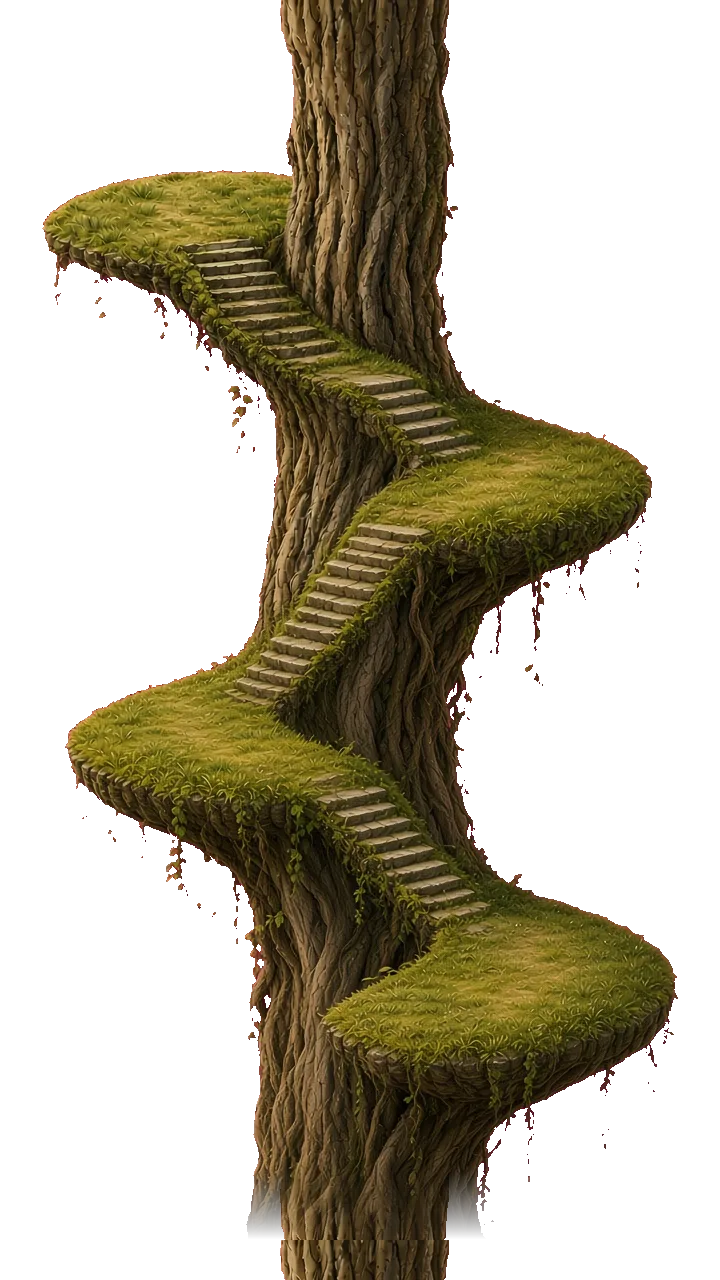
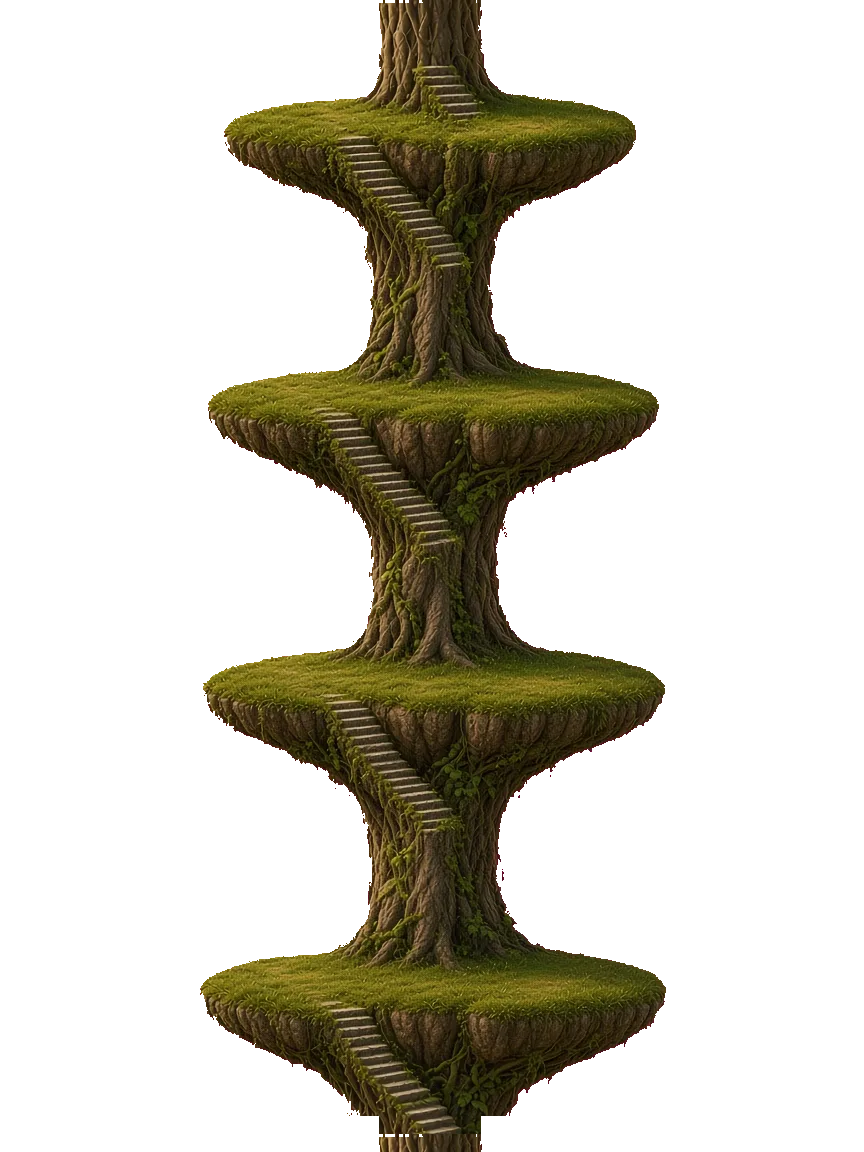
Seat larger trees in rocky plateaus on the painted beanstalk.
The spiral frame keeps a continuous trunk, signs inside the picture, and the cloudy sky from the home art. Each tree now stands in the grass of a wider stone shelf, with Zip and Frill on the current plateau. Cache ir-20261127y.

diff --git a/js/screens.js b/js/screens.js
@@ -546,7 +546,7 @@
         here: st === 'here',
         soon: st === 'soon',
         done: st === 'done',
-        img: 'img/sky/stops/u' + String(n).padStart(2, '0') + '.webp', /* painted from img/units/tile */
+        img: (spiral ? 'img/sky/rooted/u' : 'img/sky/stops/u') + String(n).padStart(2, '0') + '.webp', /* painted from img/units/tile */
         lazy: n > 8,
         kicker: 'Unit ' + n,
         name: t[0],
@@ -561,7 +561,7 @@
       n: 0,
       side: coilSide(0),
       here: atFoundations,
-      img: 'img/sky/stops/f.webp', /* painted from coverSrc, foundation/img/foundations_cover.jpg */
+      img: (spiral ? 'img/sky/rooted/f.webp' : 'img/sky/stops/f.webp'), /* painted from coverSrc, foundation/img/foundations_cover.jpg */
       kicker: 'Foundations',
       name: 'Learn the letters',
       title: 'Foundations: Learn the letters',
@@ -583,7 +583,8 @@
     pathSvg.setAttribute('aria-hidden', 'true');
     const spire = h('div', { class: 'skyspire', 'aria-hidden': 'true' });
     const trunk = h('div', { class: 'skytrunk', 'aria-hidden': 'true' });
-    const trailBits = [pathSvg, spire, trunk, library].concat(cards);
+    const skyback = spiral ? h('div', { class: 'skyback', 'aria-hidden': 'true' }) : null;
+    const trailBits = [skyback, pathSvg, spire, trunk, library].filter(Boolean).concat(cards);
     const zipImg = h('img', { class: 'skyfigpic', alt: '', src: 'img/zipA.webp' });
     const frillImg = h('img', { class: 'skyfigpic', alt: '', src: 'img/zip-show/frill-glide.webp' });
     const tuft = () => h('img', { class: 'skygrass', alt: '', src: 'img/sky/grass_tuft.webp' });
@@ -676,7 +677,8 @@
       const a = art.getBoundingClientRect();
       const t = trail.getBoundingClientRect();
       const back = stop.classList.contains('sky-b');
-      const y = a.top - t.top + a.height * 0.62;
+      const coil = trail.closest('.skyhome').classList.contains('spiral');
+      const y = a.top - t.top + a.height * (coil ? 0.96 : 0.62);
       const zipR = back ? 0.52 : 0.28;
       const frillR = back ? 0.74 : 0.7;
       return { y: y, zipX: a.left - t.left + a.width * zipR, frillX: a.left - t.left + a.width * frillR, midX: a.left - t.left + a.width * (back ? 0.3 : 0.5) };
@@ -695,26 +697,24 @@
       const fixed = sideEl && getComputedStyle(sideEl).position === 'fixed';
       const limit = fixed ? sideEl.getBoundingClientRect().top : window.innerHeight;
       const avail = Math.max(narrow ? 480 : 540, limit - trail.getBoundingClientRect().top - 10);
-      /* Painted plateaus in beanstalk.webp: left, right, left, right. */
+      /* Grass tops on the rocky shelves in beanstalk.webp. */
       const slots = [
-        { x: 0.28, y: 0.17 },
-        { x: 0.73, y: 0.37 },
-        { x: 0.28, y: 0.57 },
-        { x: 0.74, y: 0.76 }
+        { x: 0.36, y: 0.132 },
+        { x: 0.64, y: 0.358 },
+        { x: 0.36, y: 0.602 },
+        { x: 0.64, y: 0.862 }
       ];
-      const native = 1280 / 720;
-      let tileW = Math.round(w * (narrow ? 0.74 : 0.52));
+      const native = 1152 / 864;
+      const labelW = narrow ? 112 : 172;
+      const treeFrac = narrow ? 0.38 : 0.40;
+      const big = Math.round(w * (narrow ? 0.98 : 0.82));
+      /* Leave room under the grass so the rocky lip of unit 2 stays inside the frame. */
+      const fit = Math.round((avail - 16) / ((slots[3].y + 0.08) * native));
+      let tileW = Math.min(big, Math.max(narrow ? 240 : 500, fit));
+      tileW = Math.max(narrow ? 220 : 480, Math.min(w - 2, tileW));
       let tileH = Math.round(tileW * native);
-      let iw = Math.round(tileW * (narrow ? 0.34 : 0.3));
-      let artH = Math.round(iw * 1.08);
-      let bottom = Math.round(slots[3].y * tileH + artH * 0.45);
-      if (bottom > avail - 6) {
-        const scale = (avail - 6) / bottom;
-        tileW = Math.max(narrow ? 200 : 340, Math.round(tileW * scale));
-        tileH = Math.round(tileW * native);
-        iw = Math.round(tileW * (narrow ? 0.34 : 0.3));
-        artH = Math.round(iw * 1.08);
-      }
+      let iw = Math.round(tileW * treeFrac);
+      let artH = Math.round(iw * 0.9);
       const count = stops.length + 1;
       const last = count - 1;
       const total = Math.floor(last / 4) * tileH + Math.round(slots[last % 4].y * tileH + artH * 0.55 + 18);
@@ -734,25 +734,35 @@
         const aspect = !isBook && el.querySelector('.skyisland').naturalWidth ? el.querySelector('.skyisland').naturalHeight / el.querySelector('.skyisland').naturalWidth : 1.08;
         const width = isBook ? Math.round(narrow ? 52 : 64) : iw;
         const height = Math.round(width * (isBook ? 1.4 : aspect));
-        const labelW = narrow ? 82 : 160;
         let cx = left + slot.x * tileW;
-        if (side === 'l') cx = Math.max(cx, labelW + 6 + width / 2);
-        else cx = Math.min(cx, w - labelW - 6 - width / 2);
+        const edgePad = labelW + 8 + width / 2;
+        if (side === 'l') cx = Math.max(edgePad, Math.min(cx, w - width / 2 - 6));
+        else cx = Math.min(w - edgePad, Math.max(cx, width / 2 + 6));
         const grass = story * tileH + slot.y * tileH;
         if (!isBook) {
           el.classList.remove('sky-l', 'sky-r', 'sky-b');
           el.classList.add(side === 'r' ? 'sky-r' : 'sky-l');
           el.style.width = width + 'px';
           el.style.left = Math.round(cx - width / 2) + 'px';
-          el.style.top = Math.round(grass - height * 0.7) + 'px';
+          el.style.top = Math.round(grass - height + 2) + 'px';
         } else {
           el.style.left = Math.round(cx - width / 2) + 'px';
-          el.style.top = Math.round(grass - height * 0.72) + 'px';
+          el.style.top = Math.round(grass - height * 0.82) + 'px';
           el.style.width = width + 'px';
         }
       };
       if (book) placeLevel(0, book, true);
       stops.forEach((s, i) => placeLevel(i + 1, s, false));
+      pinSky();
+    }
+    function pinSky() {
+      const back = trail.querySelector('.skyback');
+      if (!back) return;
+      const frame = trail.getBoundingClientRect();
+      const viewTop = Math.max(frame.top, 0);
+      const viewBot = Math.min(frame.bottom, window.innerHeight);
+      back.style.height = Math.max(80, viewBot - viewTop) + 'px';
+      back.style.transform = 'translateY(' + Math.round(Math.max(0, -frame.top)) + 'px)';
     }
     function svgEl(NS, name, attrs) {
       const el = document.createElementNS(NS, name);
@@ -1020,6 +1030,8 @@
       put(frillFig, end.frillX, end.y);
     };
     window.addEventListener('resize', onResize);
+    const skyScr = trail.closest('.skyhome');
+    if (skyScr && spiral) skyScr.addEventListener('scroll', () => { if (trail.isConnected) pinSky(); }, { passive: true });
     trail.querySelectorAll('.skyisland').forEach((img) => {
       if (!img.complete) img.addEventListener('load', onResize, { once: true });
     });

diff --git a/styles.css b/styles.css
@@ -4007,30 +4007,36 @@ body:has(.tmscreen) #soundfix,body:has(.u123step) #soundfix,body:has(.u789step) 
 .skyhome.spiral{background:#F3E6C4}
 .skyhome.spiral .mwrap > .hbanner{background:#F3E6C4}
 .skyhome.spiral .skyspire{
-  display:block;position:absolute;z-index:0;pointer-events:none;
+  display:block;position:absolute;z-index:1;pointer-events:none;
   background:url("img/sky/beanstalk.webp") repeat-y top left;
 }
 .skyhome.spiral .skytrail{
-  position:relative;overflow:hidden;
+  position:relative;overflow:clip;
   border:4px solid #7A5430;border-radius:1.35rem;
-  background:radial-gradient(ellipse at 50% 8%, #eef8ff 0%, #c5e6f6 46%, #9dcee6 100%);
+  background:#d7eef8 url("img/sky/sky_far.webp") center 28% / cover no-repeat fixed;
   box-shadow:inset 0 0 0 2px #E7D3A4, 0 8px 16px rgba(70,46,20,.12);
+}
+.skyhome.spiral .skyback{display:none}
+.skyhome.spiral .skybody{filter:none}
+.skyhome.spiral .skybody::after{
+  content:"";position:absolute;left:8%;right:8%;bottom:-2%;height:.7rem;z-index:0;pointer-events:none;
+  background:radial-gradient(ellipse at 50% 50%, rgba(28,22,14,.42), rgba(28,22,14,0) 72%);
 }
 .skyhome.spiral .skyline,.skyhome.spiral .skystones{stroke:none}
 .skyhome.spiral .skybook{position:absolute;z-index:6;margin:0;align-self:auto;width:3.6rem}
 .skyhome.spiral .skystop{position:absolute;margin:0!important;width:112px;z-index:4;overflow:visible}
 .skyhome.spiral .skylbl{
   position:absolute;z-index:6;top:46%;bottom:auto;left:auto;right:calc(100% + .45rem);
-  width:4.8rem;height:auto;min-height:0;margin:0;transform:translateY(-50%);
+  width:6.6rem;height:auto;min-height:0;margin:0;transform:translateY(-42%);white-space:normal;
   font-family:Andika,sans-serif;
 }
 .skyhome.spiral .sky-r .skylbl{right:auto;left:calc(100% + .45rem)}
 .skyhome.spiral .sky-b .skylbl{right:calc(100% + .45rem);left:auto;top:42%}
-.skyhome.spiral .skyfig{width:2.05rem}
+.skyhome.spiral .skyfig{width:2.85rem;z-index:8}
 @media (min-width:1000px){
   .skyhome.spiral .skylbl{width:9.25rem}
   .skyhome.spiral .skybook{width:4.6rem}
-  .skyhome.spiral .skyfig{width:2.55rem}
+  .skyhome.spiral .skyfig{width:3.5rem}
 }
 @media (max-width:999px){
   .skyhome .skybook{align-self:flex-end;width:3.4rem;margin:0 .15rem .55rem 0}

diff --git a/sw.js b/sw.js
@@ -1,7 +1,7 @@
 /* Island Readers sample service worker.
    Code (HTML/JS/CSS/data) is network-first so a new version always wins; the cache is only an offline fallback.
    Media (images/audio/video) is cache-first. Install never fails because of one file. */
-const CACHE = 'ir-20261127x';
+const CACHE = 'ir-20261127y';
 const ASSETS = [
  "./index.html",
  "./js/wordplay.js",
@@ -745,6 +745,29 @@ const ASSETS = [
  "./img/sky/stops/u20.webp",
  "./img/sky/stops/u21.webp",
  "./img/sky/stops/u22.webp",
+ "./img/sky/rooted/f.webp",
+ "./img/sky/rooted/u01.webp",
+ "./img/sky/rooted/u02.webp",
+ "./img/sky/rooted/u03.webp",
+ "./img/sky/rooted/u04.webp",
+ "./img/sky/rooted/u05.webp",
+ "./img/sky/rooted/u06.webp",
+ "./img/sky/rooted/u07.webp",
+ "./img/sky/rooted/u08.webp",
+ "./img/sky/rooted/u09.webp",
+ "./img/sky/rooted/u10.webp",
+ "./img/sky/rooted/u11.webp",
+ "./img/sky/rooted/u12.webp",
+ "./img/sky/rooted/u13.webp",
+ "./img/sky/rooted/u14.webp",
+ "./img/sky/rooted/u15.webp",
+ "./img/sky/rooted/u16.webp",
+ "./img/sky/rooted/u17.webp",
+ "./img/sky/rooted/u18.webp",
+ "./img/sky/rooted/u19.webp",
+ "./img/sky/rooted/u20.webp",
+ "./img/sky/rooted/u21.webp",
+ "./img/sky/rooted/u22.webp",
  "./img/sw_chest.webp",
  "./img/w1.webp",
  "./img/w10.webp",
